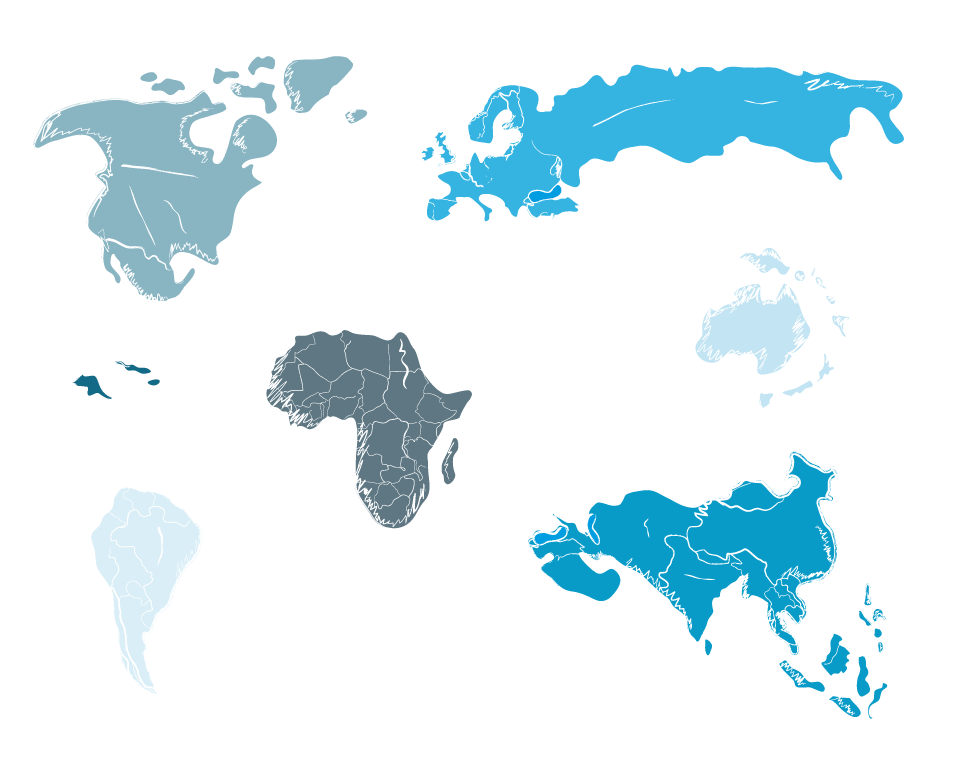
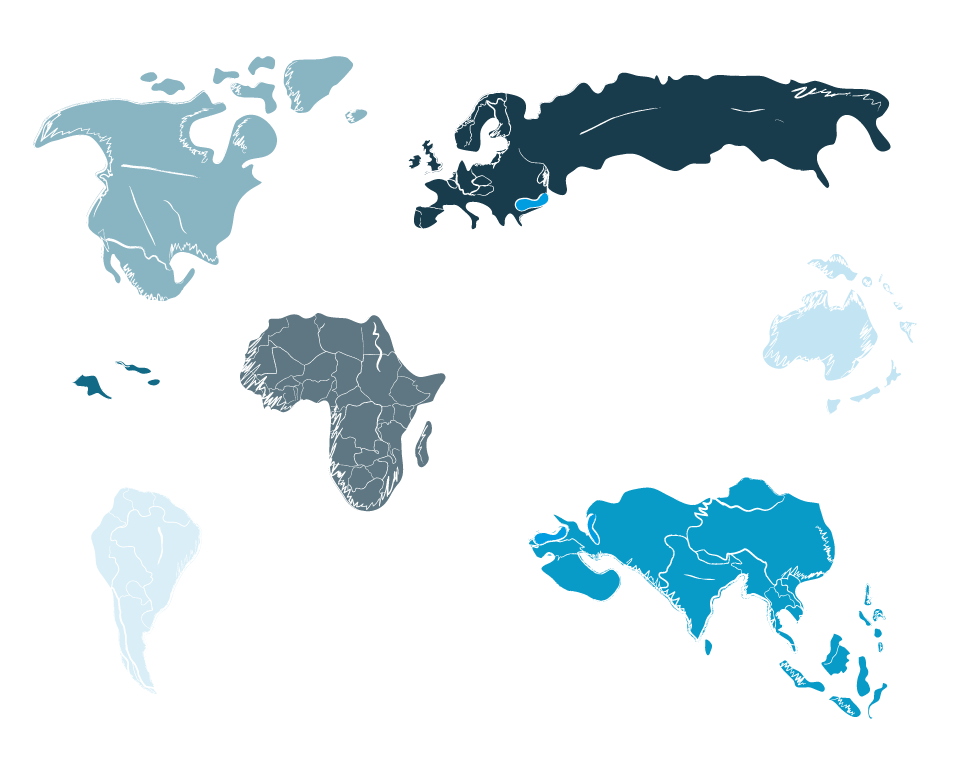
Se hacen cambios en los hover y se colocan los que estan en la nueva imagen de hover #gklst

diff --git a/app/assets/stylesheets/application.css b/app/assets/stylesheets/application.css
@@ -79,7 +79,7 @@ body{
 }
 
 #africa:hover{
-  background-position: -261px -327px;
+  background-position: -234px -310px;
   background-image: url(maphover.png);
   cursor:pointer;
 }
@@ -94,7 +94,7 @@ body{
 }
 
 #oceania:hover{
-  background-position: 265px -242px;
+  background-position: 198px -249px;
   background-image: url(maphover.png);
   cursor: pointer;
 }
@@ -109,21 +109,21 @@ body{
 }
 
 #europa:hover{
-  background-position: 432px 318px;
+  background-position: 433px 317px;
   background-image: url(maphover.png);
   cursor: pointer;
 }
 
 #asia{
   position: absolute;
-  height: 130px;
-  width: 450px;
-  margin-top: 230px;
-  margin-left:400px;
+  height: 159px;
+  width: 488px;
+  margin-top: 234px;
+  margin-left:359px;
 }
 
 #asia:hover{
-  background-position: 498px -60px;
+  background-position: 553px -71px;
   cursor: pointer;
   background-image: url(maphover.png);
 }
